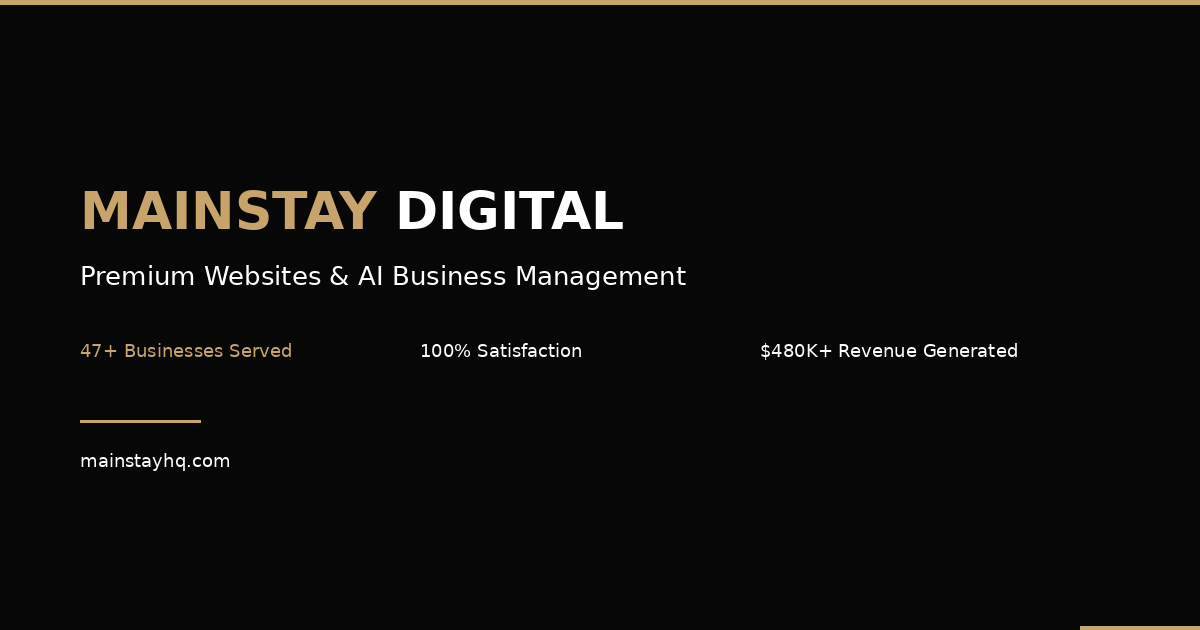
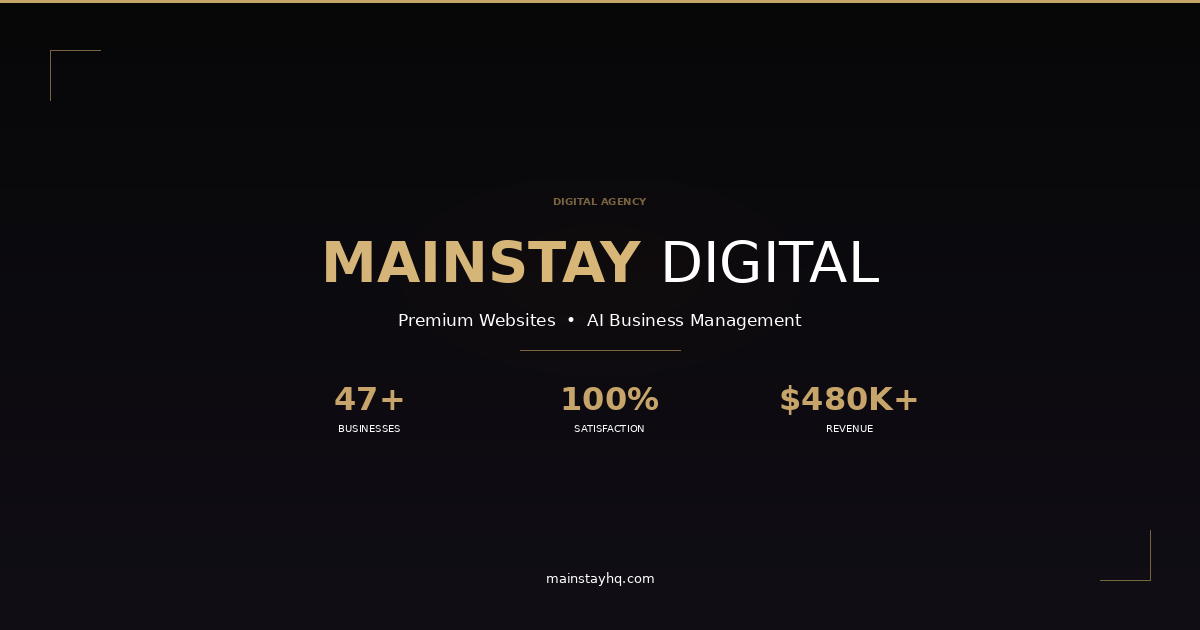
Replace OG preview image with premium branded card
- New 1200x630 OG image: centered layout, gold brand name, stats row, corner accents
- Cleaner OG title (just "Mainstay Digital") and punchier description
- Added og:image:width/height for proper rendering
- Cache-busted image URL with ?v=2 across all pages

diff --git a/index.html b/index.html
@@ -5,15 +5,17 @@
   <meta name="viewport" content="width=device-width, initial-scale=1.0" />
   <meta name="description" content="Mainstay Digital — Ultra-premium websites and AI business management for companies that want stronger first impressions and smarter operations." />
   <link rel="icon" type="image/png" href="favicon.png">
-  <meta property="og:title" content="Mainstay Digital — Premium Websites & AI Business Management" />
-  <meta property="og:description" content="Ultra-premium websites and AI business management for companies that want stronger first impressions and smarter operations." />
-  <meta property="og:image" content="https://mainstayhq.com/og-image.png" />
+  <meta property="og:title" content="Mainstay Digital" />
+  <meta property="og:description" content="Premium websites and AI systems that take your business to the next level. 47+ businesses served. 100% satisfaction." />
+  <meta property="og:image" content="https://mainstayhq.com/og-image.png?v=2" />
+  <meta property="og:image:width" content="1200" />
+  <meta property="og:image:height" content="630" />
   <meta property="og:url" content="https://mainstayhq.com" />
   <meta property="og:type" content="website" />
   <meta name="twitter:card" content="summary_large_image" />
-  <meta name="twitter:title" content="Mainstay Digital — Premium Websites & AI Business Management" />
-  <meta name="twitter:description" content="Ultra-premium websites and AI business management for companies that want stronger first impressions and smarter operations." />
-  <meta name="twitter:image" content="https://mainstayhq.com/og-image.png" />
+  <meta name="twitter:title" content="Mainstay Digital" />
+  <meta name="twitter:description" content="Premium websites and AI systems that take your business to the next level. 47+ businesses served. 100% satisfaction." />
+  <meta name="twitter:image" content="https://mainstayhq.com/og-image.png?v=2" />
   <title>Mainstay Digital — Premium Websites & AI Business Management</title>
   <link rel="preconnect" href="https://fonts.googleapis.com">
   <link rel="preconnect" href="https://fonts.gstatic.com" crossorigin>

diff --git a/about.html b/about.html
@@ -7,13 +7,13 @@
   <link rel="icon" type="image/png" href="favicon.png">
   <meta property="og:title" content="About Caden Hillier — Mainstay Digital" />
   <meta property="og:description" content="Meet the founder behind Mainstay Digital. Premium websites and AI business management, built in Connecticut." />
-  <meta property="og:image" content="https://mainstayhq.com/og-image.png" />
+  <meta property="og:image" content="https://mainstayhq.com/og-image.png?v=2" />
   <meta property="og:url" content="https://mainstayhq.com/about" />
   <meta property="og:type" content="website" />
   <meta name="twitter:card" content="summary_large_image" />
   <meta name="twitter:title" content="About Caden Hillier — Mainstay Digital" />
   <meta name="twitter:description" content="Meet the founder behind Mainstay Digital. Premium websites and AI business management, built in Connecticut." />
-  <meta name="twitter:image" content="https://mainstayhq.com/og-image.png" />
+  <meta name="twitter:image" content="https://mainstayhq.com/og-image.png?v=2" />
   <title>About — Caden Hillier | Mainstay Digital</title>
   <link rel="preconnect" href="https://fonts.googleapis.com">
   <link rel="preconnect" href="https://fonts.gstatic.com" crossorigin>

diff --git a/contact.html b/contact.html
@@ -7,13 +7,13 @@
   <link rel="icon" type="image/png" href="favicon.png">
   <meta property="og:title" content="Book a Strategy Call — Mainstay Digital" />
   <meta property="og:description" content="15 minutes. No pitch, no pressure. We'll show you exactly where your online presence is costing you business." />
-  <meta property="og:image" content="https://mainstayhq.com/og-image.png" />
+  <meta property="og:image" content="https://mainstayhq.com/og-image.png?v=2" />
   <meta property="og:url" content="https://mainstayhq.com/contact" />
   <meta property="og:type" content="website" />
   <meta name="twitter:card" content="summary_large_image" />
   <meta name="twitter:title" content="Book a Strategy Call — Mainstay Digital" />
   <meta name="twitter:description" content="15 minutes. No pitch, no pressure. We'll show you exactly where your online presence is costing you business." />
-  <meta name="twitter:image" content="https://mainstayhq.com/og-image.png" />
+  <meta name="twitter:image" content="https://mainstayhq.com/og-image.png?v=2" />
   <title>Contact — Mainstay Digital</title>
   <link rel="preconnect" href="https://fonts.googleapis.com">
   <link rel="preconnect" href="https://fonts.gstatic.com" crossorigin>
